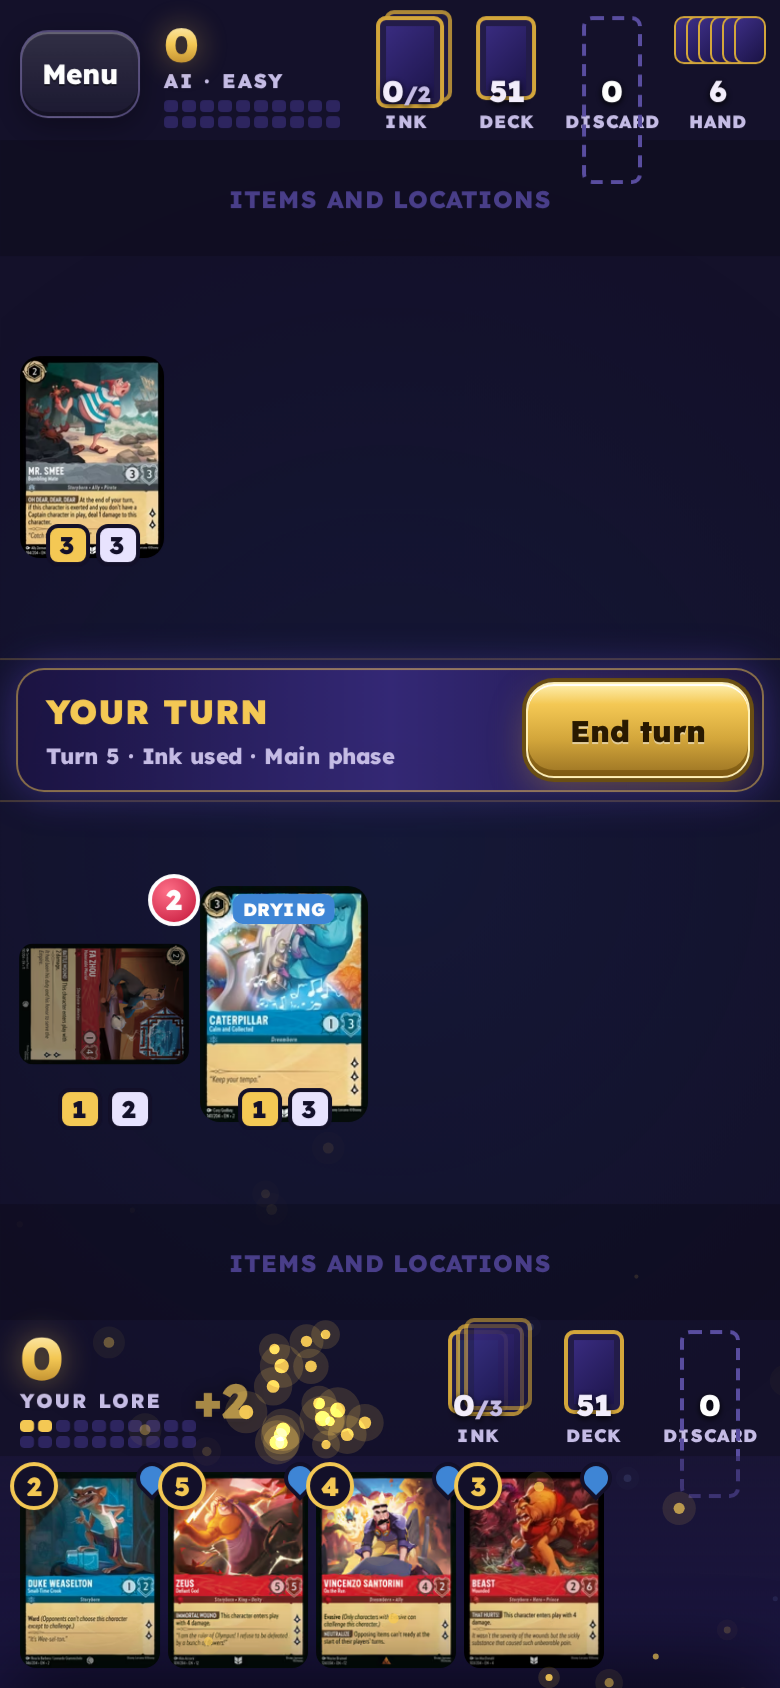
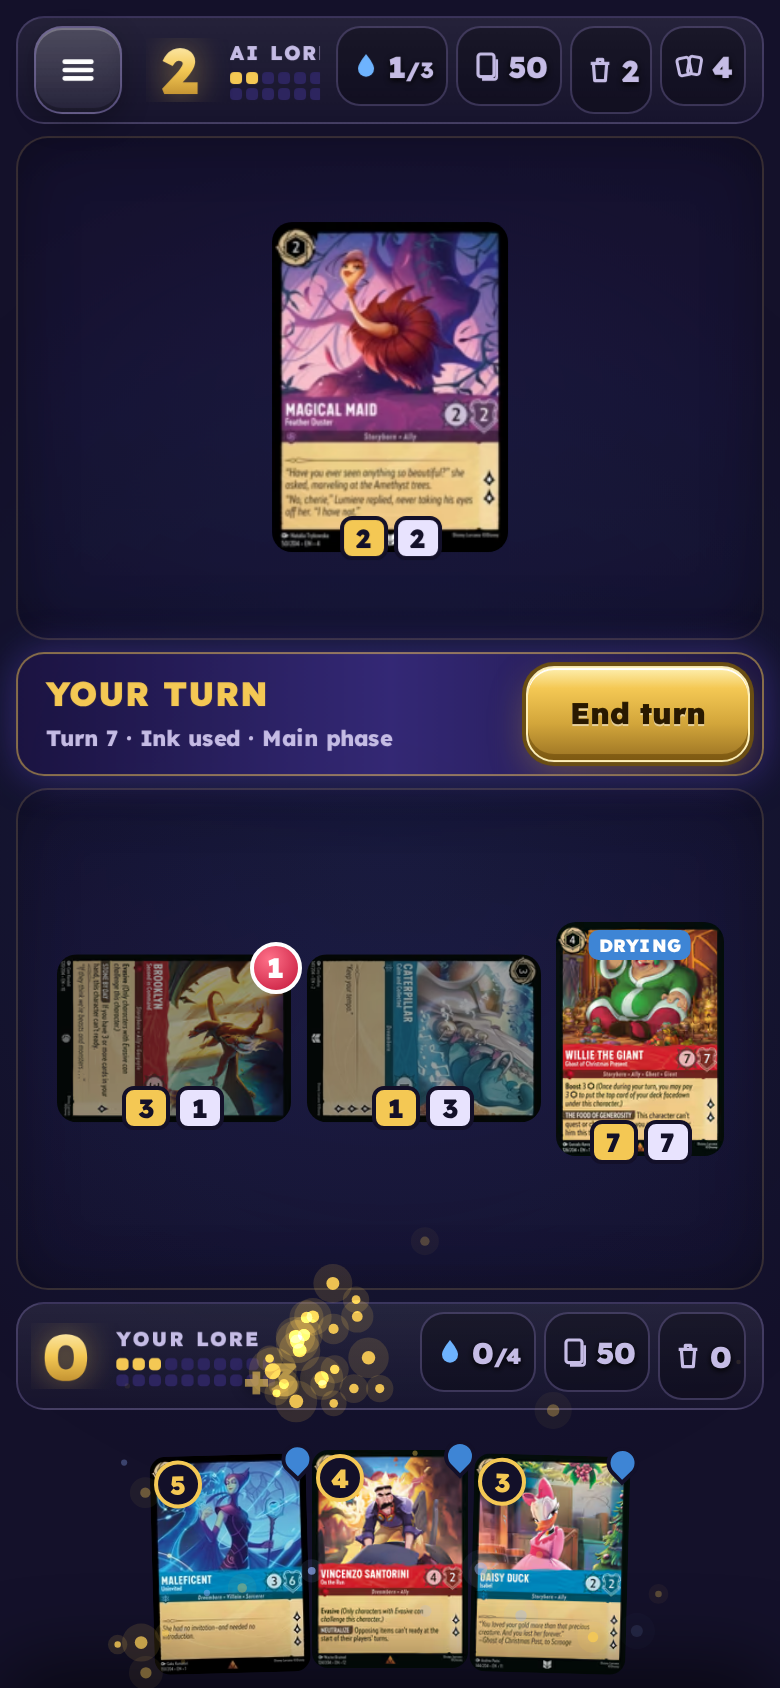
Board layout v3: slim HUD strips with chips, zone playmats, auto-fit/wrapping character rows, collapsed items strip, proper exerted rotation, fanned hand, fix red damage-text bar

diff --git a/js/play.js b/js/play.js
@@ -124,17 +124,33 @@ function cardTile(x,pi,size){const c=x.card,st=S.st,tm=S.tm;
    ${x.at?`<span class="atl">AT ${esc((E.find(st,x.at)?.inst.card.name||"").slice(0,10).toUpperCase())}</span>`:""}${x.under&&x.under.length?`<span class="und">+${x.under.length}</span>`:""}</button>`}
 const K0=(x,k)=>E.K?E.K(x,k):x.card.kw[k];
 function lorePips(n){let h="";for(let i=1;i<=20;i++)h+=`<i class="${i<=n?"on":""}"></i>`;return h}
-function hud(pi){const p=S.st.players[pi],ink=E.inkAvail(p),top=p.discard[p.discard.length-1];
-  return`<div class="hud h${pi}">${pi===1?`<button class="mbtn" data-a="pause">Menu</button>`:""}
-   <div class="loretrk" id="lore-${pi}"><b>${p.lore}</b><span>${pi===1?"AI · "+LEVELS[SET.level].toUpperCase():"YOUR LORE"}</span><div class="pips">${lorePips(p.lore)}</div></div>
-   <div class="pile ink" id="ink-${pi}" title="Inkwell"><span class="stack s${Math.min(3,p.ink.length)}"></span><b>${ink}<small>/${p.ink.length}</small></b><span class="pl">INK</span></div>
-   <div class="pile deck" id="deck-${pi}"><span class="back"></span><b>${p.deck.length}</b><span class="pl">DECK</span></div>
-   <button class="pile disc" data-a="disc" data-pi="${pi}" id="disc-${pi}">${top?`<img src="${esc(top.card.img)}" alt="">`:`<span class="empty"></span>`}<b>${p.discard.length}</b><span class="pl">DISCARD</span></button>
-   ${pi===1?`<div class="pile hand1"><span class="fan">${"<i></i>".repeat(Math.min(7,p.hand.length))}</span><b>${p.hand.length}</b><span class="pl">HAND</span></div>`:""}
+const ICO={menu:'<svg viewBox="0 0 24 24" aria-hidden="true"><path d="M4 7h16M4 12h16M4 17h16" stroke="currentColor" stroke-width="2.8" stroke-linecap="round"/></svg>',
+ ink:'<svg viewBox="0 0 24 24" aria-hidden="true"><path d="M12 3c3.5 4.6 6 8 6 11a6 6 0 0 1-12 0c0-3 2.5-6.4 6-11z" fill="currentColor"/></svg>',
+ deck:'<svg viewBox="0 0 24 24" aria-hidden="true"><rect x="6" y="3" width="12" height="17" rx="2" fill="none" stroke="currentColor" stroke-width="2.4"/><path d="M9 22h9a2 2 0 0 0 2-2V7" fill="none" stroke="currentColor" stroke-width="2"/></svg>',
+ disc:'<svg viewBox="0 0 24 24" aria-hidden="true"><path d="M5 7h14M10 7V4h4v3M7 7l1 13h8l1-13" fill="none" stroke="currentColor" stroke-width="2.4" stroke-linejoin="round"/></svg>',
+ hand:'<svg viewBox="0 0 24 24" aria-hidden="true"><rect x="3" y="6" width="9" height="13" rx="2" transform="rotate(-12 7 12)" fill="none" stroke="currentColor" stroke-width="2.2"/><rect x="11" y="5" width="9" height="13" rx="2" transform="rotate(10 15 11)" fill="none" stroke="currentColor" stroke-width="2.2"/></svg>'};
+function hud(pi){const p=S.st.players[pi],ink=E.inkAvail(p);
+  return`<div class="hud h${pi}">${pi===1?`<button class="mbtn" data-a="pause" aria-label="Menu">${ICO.menu}</button>`:""}
+   <div class="loretrk" id="lore-${pi}"><b>${p.lore}</b><div><span>${pi===1?"AI":"YOUR LORE"}</span><div class="pips">${lorePips(p.lore)}</div></div></div>
+   <div class="chips"><div class="chip ink pile" id="ink-${pi}" title="Ink ready / total">${ICO.ink}<b>${ink}<small>/${p.ink.length}</small></b></div>
+   <div class="chip pile" id="deck-${pi}" title="Deck">${ICO.deck}<b>${p.deck.length}</b></div>
+   <button class="chip pile disc" data-a="disc" data-pi="${pi}" id="disc-${pi}" aria-label="Discard pile">${ICO.disc}<b>${p.discard.length}</b></button>
+   ${pi===1?`<div class="chip pile" title="Hand">${ICO.hand}<b>${p.hand.length}</b></div>`:""}</div>
   </div>`}
-function row(pi,kind){const p=S.st.players[pi];const xs=p.play.filter(x=>kind==="chars"?x.card.type==="character":x.card.type!=="character");
-  const size=kind==="chars"?(pi===0?"lg":"md"):"sm";
-  return`<div class="row ${kind} r${pi}">${xs.map(x=>cardTile(x,pi,size)).join("")||`<span class="rowlbl">${kind==="chars"?(pi===0?"Your characters":"Opponent characters"):"Items and locations"}</span>`}</div>`}
+function zone(pi){const p=S.st.players[pi],ch=p.play.filter(x=>x.card.type==="character"),it=p.play.filter(x=>x.card.type!=="character");
+  return`<div class="zone z${pi}">${pi===0&&it.length?`<div class="strip">${it.map(x=>cardTile(x,pi,"sm")).join("")}</div>`:""}
+   <div class="row chars r${pi}">${ch.map(x=>cardTile(x,pi,"lg")).join("")||`<span class="rowlbl">${pi===0?"Your characters":"Opponent characters"}</span>`}</div>
+   ${pi===1&&it.length?`<div class="strip">${it.map(x=>cardTile(x,pi,"sm")).join("")}</div>`:""}</div>`}
+function fitBoard(){const gb=root.querySelector(".gb");if(!gb)return;
+  for(const r of gb.querySelectorAll(".row.chars")){const tiles=[...r.children].filter(x=>x.classList.contains("ct"));if(!tiles.length)continue;
+    const H=r.clientHeight-16,W=r.parentNode.clientWidth-20,g=8,n=tiles.length,exr=tiles.filter(t=>t.classList.contains("ex")).length/n,u=.716+(1-.716)*exr;
+    let best=0,rows=1;for(let k=1;k<=3;k++){const per=Math.ceil(n/k),h=Math.min((H-g*(k-1))/k,(W-g*(per-1))/(per*u+.15),165);if(h>best+6){best=h;rows=k}}
+    best=Math.max(best,70);r.style.setProperty("--ch",Math.floor(best)+"px");r.classList.toggle("wrap",rows>1);r.classList.toggle("scroll",false)}
+  for(const s of gb.querySelectorAll(".strip"))s.style.setProperty("--ch","56px");
+  const hd=gb.querySelector(".hand2");if(hd){hd.classList.toggle("big",hd.children.length>=8);const cs=[...hd.children],n=cs.length,W=hd.clientWidth-40,w=cs[0]?cs[0].offsetWidth:78;
+    let ov=n>1?Math.max(0,(n*w-W)/(n-1)):0;ov=Math.min(ov,w-(n>=8?36:44));hd.style.setProperty("--ov",(-ov)+"px");hd.classList.toggle("scroll",n*w-(n-1)*ov>W+1);
+    cs.forEach((c,i)=>{const k=n>1?i/(n-1)-.5:0;c.style.setProperty("--rot",(k*(n>3?5:3)).toFixed(2)+"deg");c.style.setProperty("--dy",(Math.abs(k)*k*0+k*k*10).toFixed(1)+"px");c.style.zIndex=c.classList.contains("sel")?50:i+1})}}
+addEventListener("resize",()=>{if(S.screen==="board")fitBoard()});
 function banner(){const st=S.st;if(st.winner!=null)return`<div class="banner over2">GAME OVER</div>`;
   if(S.tm)return`<div class="banner tm"><span>${esc(S.tm.label)}</span><button class="bbtn" data-a="cancel">Cancel</button></div>`;
   const my=st.active===0;const canEnd=my&&!st.pending&&E.legalActions(st).some(a=>a.t==="end");
@@ -158,14 +174,14 @@ function renderBoard(){
   const st=S.st,me=st.players[0];
   const rects=snapRects();
   root.innerHTML=`<div class="gb">
-   ${hud(1)}${row(1,"items")}${row(1,"chars")}
+   ${hud(1)}${zone(1)}
    ${banner()}
-   ${row(0,"chars")}${row(0,"items")}${hud(0)}
+   ${zone(0)}${hud(0)}
    <div class="handwrap">${actionBar()}<div class="hand2">${me.hand.map(h=>{const pl=myTurn()&&!S.tm&&legalFor(h.uid).some(a=>a.t==="play");const ik=myTurn()&&!S.tm&&!me.inked&&h.card.inkable;
      return`<button class="hc ${pl?"play":""} ${S.sel===h.uid?"sel":""} ${S.tm?"dim":""}" data-a="tile" data-uid="${h.uid}"><img src="${esc(h.card.img)}" alt="${esc(h.card.full)}"><span class="mcost">${E.costOf(st,0,h.card)}</span>${h.card.inkable?`<span class="inkable" title="Inkable"></span>`:""}${badge(h.card)}${ik&&!pl?"":""}</button>`}).join("")}</div></div>
    <div id="toast" class="toast"></div></div>
    ${st.pending&&st.pending.pi===0&&st.winner==null?discardPrompt():""}${st.winner!=null?endScreen():""}`;
-  if(st.winner!=null){clearFx();st.events=[]}else animate(rects);if(window.FX)FX.mode("board");tickLore();if(st.winner!=null&&!S.celebrated){S.celebrated=true;if(st.winner===0&&window.FX)setTimeout(FX.celebrate,300)}if(st.winner==null)S.celebrated=false;
+  fitBoard();if(st.winner!=null){clearFx();st.events=[]}else animate(rects);if(window.FX)FX.mode("board");tickLore();if(st.winner!=null&&!S.celebrated){S.celebrated=true;if(st.winner===0&&window.FX)setTimeout(FX.celebrate,300)}if(st.winner==null)S.celebrated=false;
   if(SET.tips&&!S.tipShown&&st.winner==null){S.tipShown=true;setTimeout(()=>tip(0),400)}
 }
 function discardPrompt(){return pickerSheet()}

diff --git a/css/style.css b/css/style.css
@@ -275,3 +275,49 @@ svg{width:20px;height:20px;flex:none}
 h1{font-size:17px;letter-spacing:.2px;min-width:0}.crest{width:16px;height:16px}
 .icon-btn.play{padding:0 12px}
 h1{font-size:15px}
+
+/* ================= Board layout v3 ================= */
+.gb{gap:0;padding-left:0;padding-right:0}
+.hud{flex:0 0 auto;display:flex;align-items:center;gap:8px;min-height:52px;margin:4px 8px;padding:4px 8px;border-radius:14px;background:linear-gradient(180deg,rgba(255,255,255,.08),rgba(255,255,255,.02));border:1px solid rgba(190,170,255,.22)}
+.hud .mbtn{min-width:44px;width:44px;padding:0}
+.loretrk{flex-direction:row;align-items:center;gap:8px;min-width:0;margin-right:auto}
+.loretrk b,.h1 .loretrk b{font-size:32px;min-width:34px;text-align:center}
+.loretrk span{font-size:10px;display:block}
+.chips{display:flex;gap:5px}
+.chip.pile{width:auto;height:40px;min-width:46px;flex-direction:row;justify-content:center;gap:4px;padding:0 8px;border-radius:12px;background:rgba(0,0,0,.28);border:1px solid rgba(190,170,255,.25);box-shadow:none;color:#c6bde6}
+.chip.pile svg{width:16px;height:16px}.chip.ink svg{color:#6fb4ff}.chip.pile b{font-size:15px}
+.chip.disc{min-height:44px;height:44px}
+.zone{flex:1 1 0;min-height:0;display:flex;flex-direction:column;margin:2px 8px;border-radius:16px;background:radial-gradient(120% 90% at 50% 50%,rgba(70,60,150,.16),rgba(10,8,30,.25));border:1px solid rgba(245,201,85,.16);box-shadow:inset 0 0 30px rgba(0,0,0,.3);overflow:hidden}
+.zone .row.chars{flex:1 1 0;min-height:0;border:0!important;justify-content:center;gap:8px;padding:8px 10px;--ch:120px}
+.zone .row.chars.scroll{justify-content:flex-start}
+.strip{flex:0 0 auto;display:flex;gap:6px;justify-content:center;overflow-x:auto;padding:5px 8px;background:rgba(0,0,0,.22);scrollbar-width:none}
+.z1 .strip{border-top:1px solid rgba(245,201,85,.14)}.z0 .strip{border-bottom:1px solid rgba(245,201,85,.14)}
+.ct.lg,.ct.sm{width:calc(var(--ch)*.716);height:var(--ch)}
+.ct.ex{width:var(--ch)}
+.ct.ex .art{inset:auto;left:50%;top:50%;width:calc(var(--ch)*.716);height:var(--ch);transform:translate(-50%,-50%) rotate(90deg)}
+.ct.sm.ex .art{transform:translate(-50%,-50%) rotate(90deg)}
+.ct.sel{transform:translateY(-4px)}
+.stats b,.stats i{font-size:13px;min-width:24px;padding:1px 5px}
+.ct.ex .stats{bottom:calc(var(--ch)*.14 - 4px)}
+.ct.ex .dtok{top:calc(var(--ch)*.14 - 6px)}
+.banner{flex:0 0 auto;margin:4px 8px!important;min-height:52px}
+.handwrap{flex:0 0 auto;background:none}
+.hand2{display:flex;gap:0;padding:16px 10px max(10px,env(safe-area-inset-bottom));justify-content:center;overflow-x:auto;overflow-y:visible}
+.hand2.scroll{justify-content:flex-start}
+.hc{flex:0 0 78px;height:109px;margin-left:var(--ov,0px);transform:rotate(var(--rot,0)) translateY(var(--dy,0));transform-origin:50% 120%}
+.hc:first-child{margin-left:0}
+.hc.sel{transform:translateY(-18px)!important;z-index:50}
+.hc .mcost{left:2px;top:2px}
+.abar{bottom:calc(100% + 6px)}
+@media (max-height:800px){.hud{min-height:48px;margin:3px 8px}.banner{min-height:46px}.hc{flex-basis:70px;height:98px}.hand2{padding-top:12px}}
+.ftext.dmg{background:none;right:auto;height:auto;min-width:0;border-radius:0;display:block}
+.zone .row.chars,.strip{width:100%;max-width:100%;min-width:0}
+.zone .row.chars.wrap{flex-wrap:wrap;align-content:center;row-gap:8px;overflow-y:auto}
+.hand2{padding-left:20px;padding-right:20px}
+.chips{gap:4px;flex:none}.chip.pile{min-width:40px;padding:0 6px;gap:3px}
+.loretrk{flex:1 1 auto;overflow:hidden}.loretrk>div{min-width:0;overflow:hidden}
+.pips{grid-template-columns:repeat(10,6px)}.pips i{width:6px}
+.abar{position:static;border-radius:14px;margin:0 8px;border:1px solid rgba(245,201,85,.5)}
+@media (max-width:375px){.loretrk span{font-size:9px}.chip.pile{min-width:36px;padding:0 5px}.chip.pile b{font-size:14px}.chip.pile svg{width:14px;height:14px}}
+.hand2.big .hc{flex-basis:66px;height:92px}
+.handwrap{flex-shrink:0}.hand2{min-height:135px;align-items:flex-start}.hand2.big{min-height:118px}@media (max-height:800px){.hand2{min-height:122px}}

diff --git a/index.html b/index.html
@@ -3,7 +3,7 @@
 <meta http-equiv="Cache-Control" content="no-cache, no-store, must-revalidate"><meta http-equiv="Pragma" content="no-cache"><meta http-equiv="Expires" content="0">
 <meta name="theme-color" content="#241d4a"><title>Liam's Lorcana Collection</title>
 <link rel="preconnect" href="https://fonts.googleapis.com"><link href="https://fonts.googleapis.com/css2?family=Lexend:wght@600;800;900&display=swap" rel="stylesheet">
-<link rel="stylesheet" href="./css/style.css?v=20261012041448"></head><body>
+<link rel="stylesheet" href="./css/style.css?v=20261012231047"></head><body>
 <header id="top">
  <div class="row"><button id="back" class="icon-btn" aria-label="Back to sets" hidden><svg viewBox="0 0 24 24" aria-hidden="true"><path d="M15 5l-7 7 7 7" fill="none" stroke="currentColor" stroke-width="3" stroke-linecap="round" stroke-linejoin="round"/></svg><span>Back</span></button>
   <h1 id="title"><span class="crest" aria-hidden="true"></span>LIAM'S LORCANA</h1>
@@ -15,4 +15,4 @@
 <div id="scrim" hidden></div>
 <section id="sheet" class="sheet" aria-hidden="true"><div class="grab"></div><div id="sheet-body"></div></section>
 <input type="file" id="import" accept=".json,application/json" hidden>
-<script>window.APP_VERSION="20261012041448"</script><script src="./data/snapshot.js?v=20261012041448"></script><script src="./js/fx.js?v=20261012041448"></script><script src="./js/engine.js?v=20261012041448"></script><script src="./js/play.js?v=20261012041448"></script><script src="./js/app.js?v=20261012041448"></script></body></html>
+<script>window.APP_VERSION="20261012231047"</script><script src="./data/snapshot.js?v=20261012231047"></script><script src="./js/fx.js?v=20261012231047"></script><script src="./js/engine.js?v=20261012231047"></script><script src="./js/play.js?v=20261012231047"></script><script src="./js/app.js?v=20261012231047"></script></body></html>
